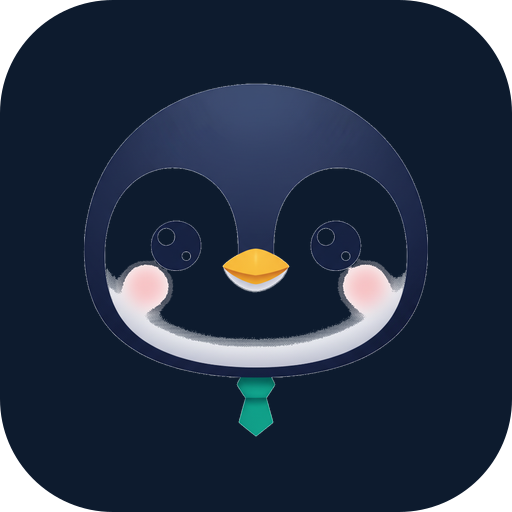
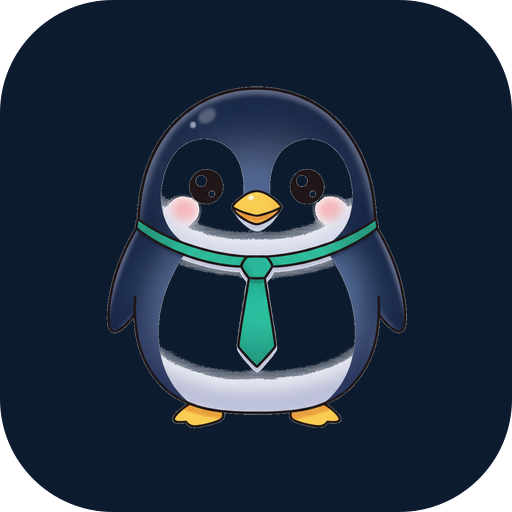
fix: チャットボット緑背景修正 + Careoロゴ刷新 + カレオくん手書きアニメーション
- LPチャットボタン: 緑グラデ → ダークネイビー背景に変更（ペンギン透過対応）
- Careoロゴ: 「o」をブランドカラー(#00c896)に（LP/サイドバー/モバイル）
- カレオくん手書き文字: タイプライター風アニメーションで徐々に表示
- アプリアイコン: 全身ペンギン + ダークネイビー背景で再生成

Changed region(s): [[0.1562, 0.1562, 0.8438, 0.8438]]

diff --git a/src/components/landing/MobileLandingPage.tsx b/src/components/landing/MobileLandingPage.tsx
@@ -428,10 +428,10 @@ export function MobileLandingPage({ recentPosts = [], userCount = 0, reviews = [
           <div className="flex items-center gap-2">
             <img src="/icon-192.png" alt="Careo" className="w-7 h-7 rounded-xl" />
             <span
-              className="font-bold text-base tracking-tight transition-colors duration-300"
+              className="font-black text-base tracking-tight transition-colors duration-300"
               style={{ color: scrollY > 50 ? "#0D0B21" : "#ffffff" }}
             >
-              Careo
+              Care<span className="text-[#00c896]">o</span>
             </span>
           </div>
           <div className="flex items-center gap-2">
@@ -471,12 +471,15 @@ export function MobileLandingPage({ recentPosts = [], userCount = 0, reviews = [
             就活、<br />
             <span className="text-[#00c896]">全部<br /><span className="whitespace-nowrap">知ってる。</span></span>
           </h1>
-          {/* eslint-disable-next-line @next/next/no-img-element */}
-          <img
-            src="/kareo/kareo-default.png"
-            alt="カレオ"
-            className="absolute -right-4 bottom-0 w-48 h-auto animate-float drop-shadow-xl"
-          />
+          <div className="absolute -right-4 bottom-0 flex flex-col items-center">
+            <p className="text-sm text-[#00c896] mb-0.5 select-none handwriting-animate -rotate-3">カレオくん</p>
+            {/* eslint-disable-next-line @next/next/no-img-element */}
+            <img
+              src="/kareo/kareo-default.png"
+              alt="カレオくん"
+              className="w-48 h-auto animate-float drop-shadow-xl"
+            />
+          </div>
         </div>
 
         <p className="text-gray-400 text-sm leading-relaxed mb-8">

diff --git a/src/components/landing/LandingPage.tsx b/src/components/landing/LandingPage.tsx
@@ -482,7 +482,9 @@ export function LandingPage({ recentPosts = [], userCount = 0, reviews = [] }: {
         <div className="max-w-6xl mx-auto flex items-center justify-between px-6 py-4">
           <div className="flex items-center gap-2.5">
             <img src="/icon-192.png" alt="Careo" className="w-8 h-8 rounded-xl" />
-            <span className="font-bold text-lg tracking-tight text-[#0D0B21]">Careo</span>
+            <span className="font-black text-xl tracking-tight">
+              <span className="text-[#0D0B21]">Care</span><span className="text-[#00c896]">o</span>
+            </span>
           </div>
           <nav className="hidden md:flex items-center gap-6">
             {[
@@ -595,9 +597,13 @@ export function LandingPage({ recentPosts = [], userCount = 0, reviews = [] }: {
             <div className="relative hidden md:flex flex-col items-center justify-center px-4">
               {/* Glow behind mascot */}
               <div className="absolute w-80 h-80 rounded-full bg-[#00c896]/12 blur-3xl" />
+              {/* 手書き風の名前 */}
+              <p className="relative text-2xl xl:text-3xl text-[#00c896] mb-2 select-none handwriting-animate -rotate-3">
+                カレオくん
+              </p>
               <img
                 src="/kareo/kareo-default.png"
-                alt="カレオ"
+                alt="カレオくん"
                 className="relative w-[460px] xl:w-[560px] h-auto drop-shadow-2xl animate-float"
               />
               {/* Speech bubble */}

diff --git a/src/components/landing/LPChatBot.tsx b/src/components/landing/LPChatBot.tsx
@@ -224,12 +224,14 @@ export function LPChatBot({
       {/* マスコットボタン（左下固定） */}
       <button
         onClick={() => setOpen((v) => !v)}
-        className="fixed bottom-6 left-4 z-50 w-14 h-14 rounded-full shadow-xl flex items-center justify-center transition-all duration-200 hover:scale-110 active:scale-95"
+        className="fixed bottom-6 left-4 z-50 w-14 h-14 rounded-full shadow-xl flex items-center justify-center transition-all duration-200 hover:scale-110 active:scale-95 overflow-hidden"
         style={{
           background: open
             ? "linear-gradient(135deg, #00a87e 0%, #008f6a 100%)"
-            : "linear-gradient(135deg, #00c896 0%, #00a87e 100%)",
-          boxShadow: "0 4px 20px rgba(0, 200, 150, 0.4)",
+            : "#0d1b2e",
+          boxShadow: open
+            ? "0 4px 20px rgba(0, 200, 150, 0.4)"
+            : "0 4px 20px rgba(0, 0, 0, 0.3)",
         }}
         aria-label={open ? "チャットを閉じる" : "カレオに質問する"}
       >
@@ -238,7 +240,7 @@ export function LPChatBot({
             <path d="M4 4l12 12M16 4L4 16" stroke="white" strokeWidth="2.5" strokeLinecap="round" />
           </svg>
         ) : (
-          <KareoAvatar size={40} />
+          <KareoAvatar size={44} />
         )}
 
         {/* 未読バッジ（初回表示） */}

diff --git a/src/app/globals.css b/src/app/globals.css
@@ -361,6 +361,31 @@
   word-spacing: 0.1em;
 }
 
+/* Handwriting-style text with writing animation */
+.handwriting-text {
+  font-family: 'Comic Sans MS', 'Chalkboard SE', 'Segoe Script', cursive;
+}
+
+.handwriting-animate {
+  font-family: 'Comic Sans MS', 'Chalkboard SE', 'Segoe Script', cursive;
+  display: inline-block;
+  overflow: hidden;
+  white-space: nowrap;
+  border-right: 2px solid #00c896;
+  animation: handwrite 1.2s steps(5) 0.5s forwards, blink-caret 0.6s step-end 3 forwards;
+  width: 0;
+}
+
+@keyframes handwrite {
+  from { width: 0; }
+  to { width: 5em; }
+}
+
+@keyframes blink-caret {
+  from, to { border-color: transparent; }
+  50% { border-color: #00c896; }
+}
+
 /* Reduce motion (theme toggle) */
 .reduce-motion *, .reduce-motion *::before, .reduce-motion *::after {
   animation-duration: 0.01ms !important;

diff --git a/src/components/layout/Sidebar.tsx b/src/components/layout/Sidebar.tsx
@@ -249,7 +249,7 @@ export function Sidebar() {
                 <img src="/icon-192.png" alt="Careo" className="w-full h-full" />
               </div>
               <div>
-                <span className="text-white font-black text-[17px] tracking-tight leading-none">Careo</span>
+                <span className="font-black text-[17px] tracking-tight leading-none"><span className="text-white">Care</span><span className="text-[#00c896]">o</span></span>
                 <p className="text-white/30 text-[9px] tracking-widest uppercase mt-0.5">AI Career</p>
               </div>
             </div>
